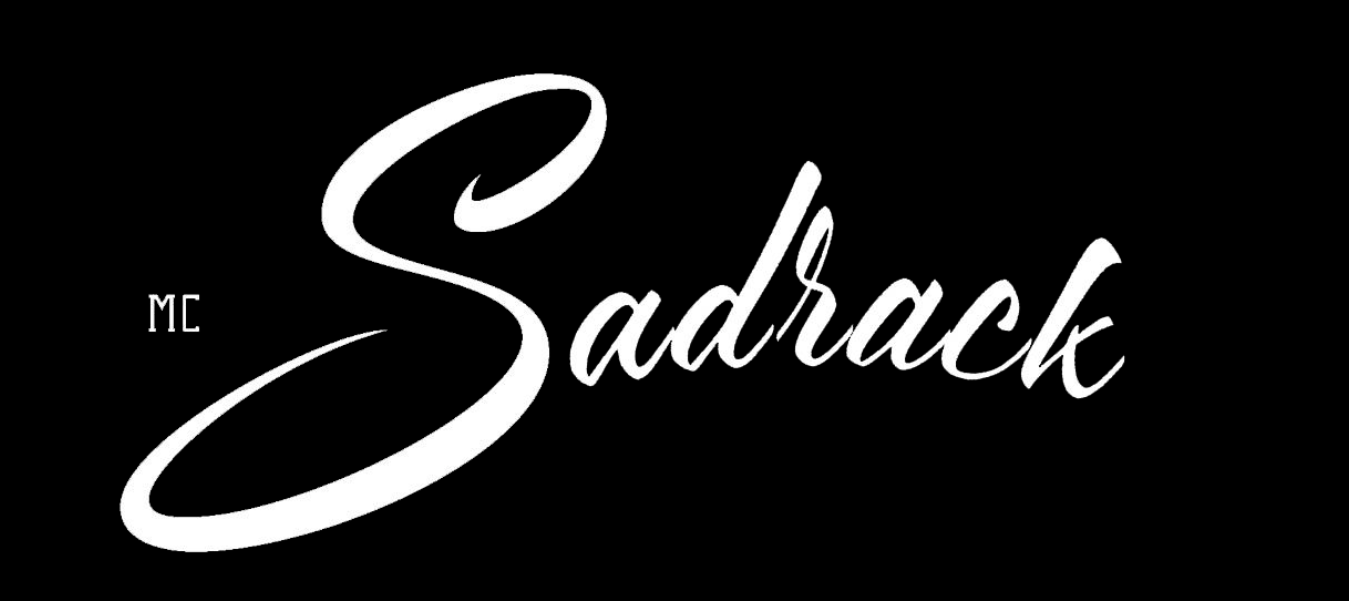
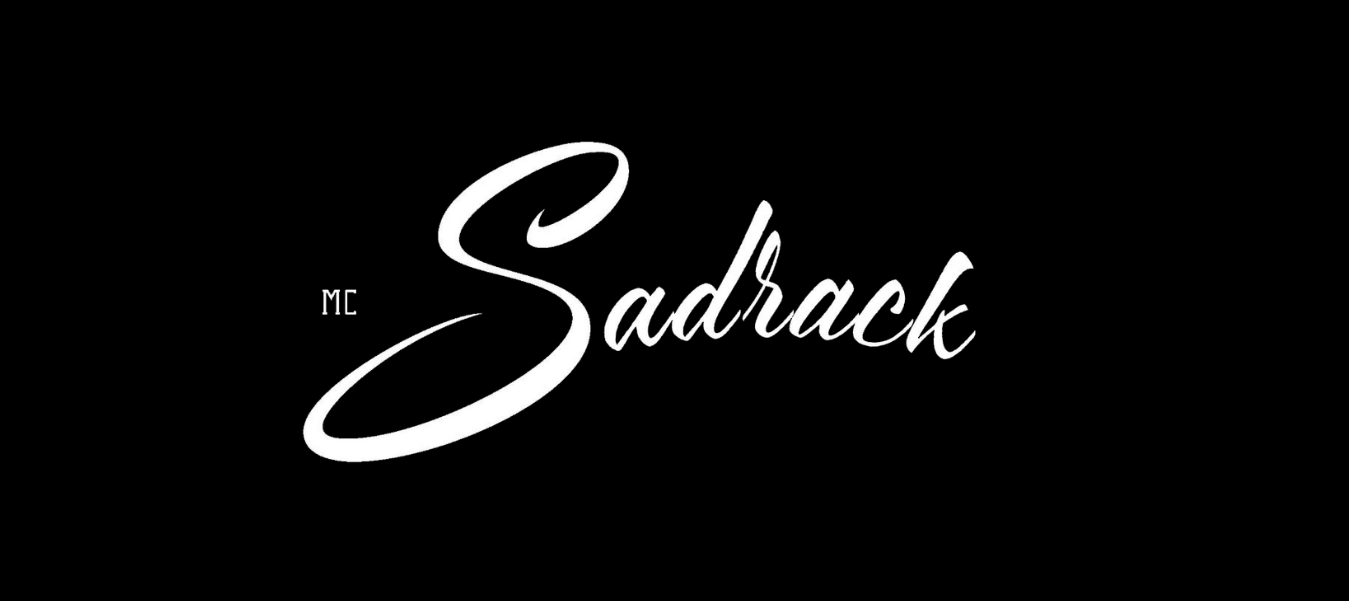
commit2

Changed region(s): [[0.0623, 0.1198, 0.8406, 0.9285], [0.0934, 0.4792, 0.1557, 0.5691]]

diff --git a/assets/css/style.css b/assets/css/style.css
@@ -220,6 +220,8 @@ h6 {
   width: 100%;
   height: 100vh;
   background: url("../img/v1h\ capa.png") top right;
+  max-width: 100%;
+  width: 1400px;
   background-size: cover;
   position: relative;
 }
